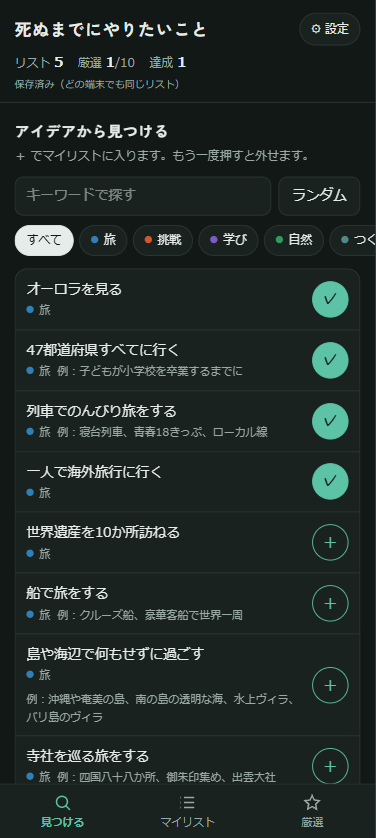
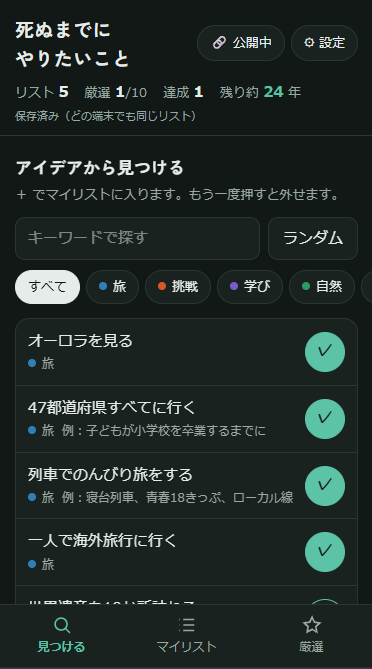
見出しを「死ぬまでに／やりたいこと」で折り返し、README の画像を差し替える
ボタンが2つになり、狭い画面では見出しが2行になる。日本語はどこでも改行できるため、
「死ぬまでにや／りたいこと」と言葉の途中で切れていた。<wbr> の位置だけで改行させる。

diff --git a/src/styles.css b/src/styles.css
@@ -36,6 +36,7 @@ button { cursor: pointer }
 header.top { position: sticky; top: 0; z-index: 5; background: var(--bg); padding: 14px 16px 10px; border-bottom: 1px solid var(--line) }
 .title-row { display: flex; align-items: center; justify-content: space-between; gap: 8px }
 h1 { font-family: var(--font-display); font-size: 19px; font-weight: 700; margin: 0; letter-spacing: .02em; text-wrap: balance }
+.title-row h1 { word-break: keep-all } /* 改行は <wbr> の位置だけにする */
 .top-btns { display: flex; gap: 6px; flex-shrink: 0 }
 .icon-btn { border: 1px solid var(--line); background: var(--surface); border-radius: 999px; padding: 5px 12px; font-size: 13px; min-height: 36px }
 .stats { display: flex; gap: 16px; margin-top: 8px; font-size: 13px; color: var(--muted); flex-wrap: wrap }

diff --git a/src/web/App.tsx b/src/web/App.tsx
@@ -195,7 +195,7 @@ export function App(props: { items: Item[]; settings: Settings; publish: Publish
     <div className="app">
       <header className="top">
         <div className="title-row">
-          <h1>死ぬまでにやりたいこと</h1>
+          <h1>死ぬまでに<wbr />やりたいこと</h1>
           <div className="top-btns">
             <button className="icon-btn" type="button" onClick={() => setPublishOpen(true)}>
               🔗 {publish.on ? '公開中' : '公開する'}
